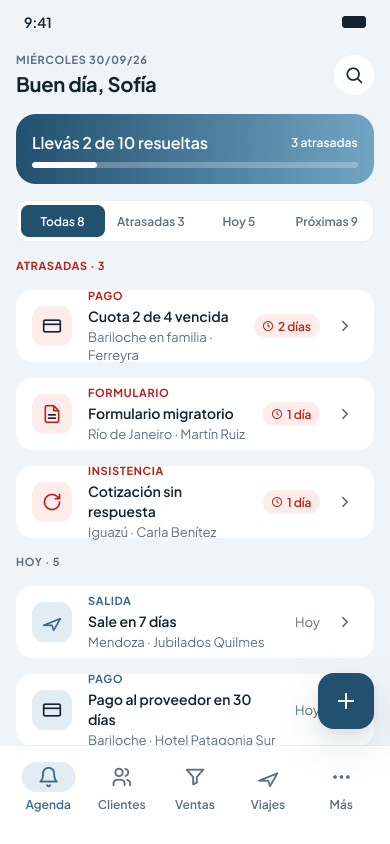
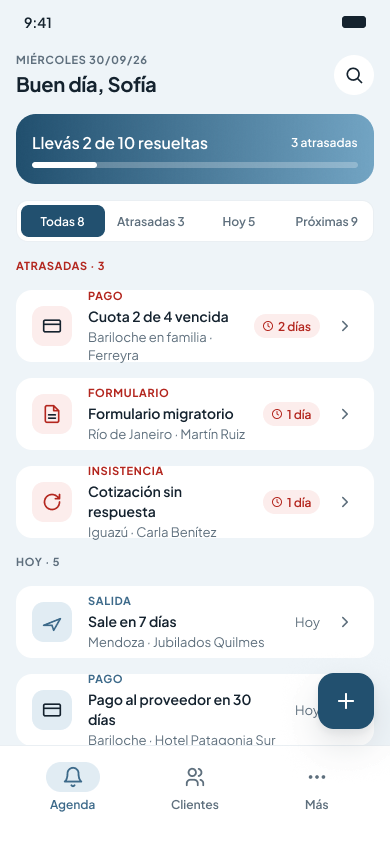
B5: mobile completo y navegación revisada del prototipo (RNF-14)
8 pantallas mobile (PNG 52 a 59), pestañas Agenda · Clientes · Más,
todas las pantallas alcanzables desde los puntos de inicio. B5 cerrado.

diff --git a/00-Inicio/Estado del proyecto.md b/00-Inicio/Estado del proyecto.md
@@ -27,7 +27,7 @@ Los tres tomamos **los tres roles** (Coordinador de vault · Guardián del domin
 - [x] Diagramas de **actividad** de flujos clave — ✅ los 5 en `03-Dominio/Diagramas/Actividad/` ([[DGM-ACT — De la consulta a la venta|CU-01]], [[DGM-ACT — Confirmar reserva|CU-07]], [[DGM-ACT — Registrar cobro de un pago|CU-12]], [[DGM-ACT — Cancelar viaje|CU-27]], [[DGM-ACT — Proceso automático diario|proceso diario]]); sus 18 huecos se resolvieron y se **formalizaron el 29/09**
 - [x] [[ARQ — Vista general]] formalizada — ✅ ratificada en la sync del 30/09
 - [x] DEC estructurales registradas y **ratificadas**: DEC-0001→0009 selladas (11/09 y 17/09; DEC-0004 obsoleta); **DEC-0002 y DEC-0010 formalizadas el 29/09**
-- [x] Prototipo UI de pantallas clave (Figma) — plan B · ✅ **B2, B3 y B4 hechos el 29/09 (Paloma)**: las 11 pantallas en [Rumbo — Prototipo PC1](https://www.figma.com/design/5rq8HOlZQ3uu4IUpBuhuZp), con sistema de diseño propio. Ampliado el mismo día al **sistema completo**: 20 pantallas más que cubren el resto de los CU (todos menos CU-01, que es el circuito completo) y las vistas `admin` y `freelance`, en filas por módulo. Navegable (435 interacciones, 5 puntos de inicio). B4: 36 PNG en `07-Entregables/Prototipo/img/` y nota [[Prototipo UI]]. ✅ Aprobado y formalizado en la sync del 30/09; ⏳ **B5**: completar todas las secciones por rol y el mobile — ✅ el `freelance` completo y las vistas por rol (30/09, 51 PNG); falta el mobile
+- [x] Prototipo UI de pantallas clave (Figma) — plan B · ✅ **B2, B3 y B4 hechos el 29/09 (Paloma)**: las 11 pantallas en [Rumbo — Prototipo PC1](https://www.figma.com/design/5rq8HOlZQ3uu4IUpBuhuZp), con sistema de diseño propio. Ampliado el mismo día al **sistema completo**: 20 pantallas más que cubren el resto de los CU (todos menos CU-01, que es el circuito completo) y las vistas `admin` y `freelance`, en filas por módulo. Navegable (435 interacciones, 5 puntos de inicio). B4: 36 PNG en `07-Entregables/Prototipo/img/` y nota [[Prototipo UI]]. ✅ Aprobado y formalizado en la sync del 30/09; ⏳ **B5**: completar todas las secciones por rol y el mobile — ✅ **B5 completo** (30/09, Paloma): `freelance`, vistas por rol y mobile; 59 PNG
 - [x] Modelos de IA del producto, prompts y agentes documentados — plan E · ✅ 30/09 (Francisco): E3 y E4 hechos; [[IA — Agentes del proyecto]] queda `en-revision` para A6
 - [x] Contrato OpenAPI (JSON) y script SQL del modelo de datos — plan F · ✅ F1 y F2 formalizados en la sync del 30/09; F3 (diagramas de dominio al documento) entra con H3
 - [ ] Modelo C4 y sección MVC en la arquitectura — plan G
@@ -106,7 +106,7 @@ Los tres tomamos **los tres roles** (Coordinador de vault · Guardián del domin
 - [x] **B2. Wireframes** de baja fidelidad de esas pantallas, recorriendo el camino principal de [[CU-01 De la consulta a la venta|CU-01]] de punta a punta. — ✅ 29/09 (Paloma): se saltó la baja fidelidad y se fue directo a B3, validando el estilo con una primera pantalla.
 - [x] **B3. Diseño en Figma** (vía MCP) con el vocabulario del lenguaje ubicuo y los estados reales del modelo (`reservado → vendido → confirmado…`, alertas `pendiente/vista/resuelta`). — ✅ 29/09 (Paloma): [Rumbo — Prototipo PC1](https://www.figma.com/design/5rq8HOlZQ3uu4IUpBuhuZp). Página «🧩 Componentes»: tokens (paleta del equipo, espaciado y radios), 8 estilos de texto (Plus Jakarta Sans), 2 sombras, 28 íconos y los componentes Botón, Etiqueta, Ítem de menú, Fila de alerta, Campo, Chip y Barra lateral. Página «🖥 Pantallas»: las 11 pantallas más los estados CU-14 vacío (A3), aviso con «Deshacer» y CU-24 error (A1). ⚠ La agenda muestra «Próximas» y «Progreso del día», **propuestos** en CU-14 (A5 y el indicador, con `Alerta.resuelta_en`) y a la espera de que Nahuel los acepte; si no se aceptan, hay que sacarlos del prototipo.
 - [x] **B4. Publicar:** link de Figma + PNG de cada pantalla en `07-Entregables/Prototipo/`, y una fila nueva en [[Entregables — índice]]. — ✅ 29/09 (Paloma): 36 PNG en `07-Entregables/Prototipo/img/`, nota [[Prototipo UI]] (tabla pantalla → CU → PNG) y filas en [[Entregables — índice]].
-- [ ] **B5. Prototipado completo por rol y mobile** (pedido en la sync del 30/09, Paloma; antes del cierre del día 2). El prototipo quedó **aprobado y formalizado**, pero hoy muestra sobre todo la vista del `empleado`, con una muestra chica del `freelance` y dos pantallas mobile. Falta: (1) **cada sección vista por cada rol** (`empleado`, `admin`, `dueño` y `freelance`), mostrando qué ve y qué puede hacer cada uno según [[DEC-0005 Autenticación y modelo de roles|DEC-0005]] y [[DEC-0008 Autenticación propia y rol de vendedor freelance|DEC-0008]]; (2) **el `freelance` completo**: todas sus secciones, solo con lo suyo, **sin** acciones para cargar o editar hoteles ni registrar reseñas (CU-16 y CU-17) y **sin** el módulo de redes (CU-19 y CU-20); `empleado`, `admin` y `dueño` sí cargan hoteles y reseñas, y moderar reseñas (CU-29) es solo de `admin` y `dueño`; (3) **el mobile completo**, con todas las secciones del alcance mobile de [[ARQ — Vista general]] (agenda, alertas y clientes), no solo la agenda y la ficha. Al terminar: exportar los PNG nuevos a `07-Entregables/Prototipo/img/` y sumarlos a la tabla de [[Prototipo UI]]. — ✅ **(2) hecho el 30/09 (Paloma):** 10 pantallas nuevas del `freelance` (agenda, calendario, clientes, ficha del cliente, cotización, viajes, ficha del viaje, catálogo y detalle de hotel, dashboard) con su propia cartera ficticia, menú reconectado para que el recorrido no salga a las pantallas del `empleado`, y el embudo (34) corregido porque reusaba clientes de Sofía; PNG 37 a 46. ✅ **(1) hecho el 30/09 (Paloma):** matriz rol × sección en [[Prototipo UI]] y 5 pantallas donde la vista cambia (dashboard y detalle de hotel del `empleado`, agenda de toda la agencia para `admin` y `dueño`, configuración de la dueña); el menú del `empleado` ya no muestra Reportes ni Configuración. `#accion/decidir`: la dueña ve solo Destinos y Operadores en Configuración porque CU-13 y CU-25 son solo del `admin`. **Falta (3)** el mobile.
+- [x] **B5. Prototipado completo por rol y mobile** (pedido en la sync del 30/09, Paloma; antes del cierre del día 2). El prototipo quedó **aprobado y formalizado**, pero hoy muestra sobre todo la vista del `empleado`, con una muestra chica del `freelance` y dos pantallas mobile. Falta: (1) **cada sección vista por cada rol** (`empleado`, `admin`, `dueño` y `freelance`), mostrando qué ve y qué puede hacer cada uno según [[DEC-0005 Autenticación y modelo de roles|DEC-0005]] y [[DEC-0008 Autenticación propia y rol de vendedor freelance|DEC-0008]]; (2) **el `freelance` completo**: todas sus secciones, solo con lo suyo, **sin** acciones para cargar o editar hoteles ni registrar reseñas (CU-16 y CU-17) y **sin** el módulo de redes (CU-19 y CU-20); `empleado`, `admin` y `dueño` sí cargan hoteles y reseñas, y moderar reseñas (CU-29) es solo de `admin` y `dueño`; (3) **el mobile completo**, con todas las secciones del alcance mobile de [[ARQ — Vista general]] (agenda, alertas y clientes), no solo la agenda y la ficha. Al terminar: exportar los PNG nuevos a `07-Entregables/Prototipo/img/` y sumarlos a la tabla de [[Prototipo UI]]. — ✅ **(2) hecho el 30/09 (Paloma):** 10 pantallas nuevas del `freelance` (agenda, calendario, clientes, ficha del cliente, cotización, viajes, ficha del viaje, catálogo y detalle de hotel, dashboard) con su propia cartera ficticia, menú reconectado para que el recorrido no salga a las pantallas del `empleado`, y el embudo (34) corregido porque reusaba clientes de Sofía; PNG 37 a 46. ✅ **(1) hecho el 30/09 (Paloma):** matriz rol × sección en [[Prototipo UI]] y 5 pantallas donde la vista cambia (dashboard y detalle de hotel del `empleado`, agenda de toda la agencia para `admin` y `dueño`, configuración de la dueña); el menú del `empleado` ya no muestra Reportes ni Configuración. `#accion/decidir`: la dueña ve solo Destinos y Operadores en Configuración porque CU-13 y CU-25 son solo del `admin`. ✅ **(3) hecho el 30/09:** mobile completo (inicio de sesión, detalle de alerta, posponer, agenda tras resolver, nuevo recordatorio, clientes, nuevo cliente y Más), con pestañas Agenda · Clientes · Más según RNF-14. Se revisó la navegación de todo el prototipo: todas las pantallas se alcanzan desde un punto de inicio. **B5 cerrado.**
 
 ### C · Recomendados — refuerzan el modelo
 - [ ] **C1. Catálogo de reglas de negocio.** Hoy solo existe [[RN-01 Comisión automática]]. Candidatas que ya están decididas y dispersas en los CU: **RN-02** `Σ montos = precioVenta` ([[CU-11 Definir plan de cuotas|CU-11]]), **RN-03** el Pago es indivisible (RF-072), **RN-04** baja lógica en todo el sistema (RF-153), **RN-05** el primer cobro pasa el viaje a `vendido` y la secuencia del viaje es estricta ([[EST-Viaje]]).

diff --git a/07-Entregables/Prototipo/Prototipo UI.md b/07-Entregables/Prototipo/Prototipo UI.md
@@ -73,6 +73,14 @@ Tokens en variables (paleta del equipo: azules `#22506F` → `#73A5C4` y gris `#
 | 49 | Admin · agenda de toda la agencia | CU-14 | `img/49-admin-agenda-agencia.png` |
 | 50 | Dueña · agenda de toda la agencia | CU-14 | `img/50-duena-agenda-agencia.png` |
 | 51 | Dueña · configuración (destinos y operadores) | [[CU-26 Gestionar destinos|CU-26]] · CU-15 · [[CU-31 Gestionar operadores|CU-31]] | `img/51-duena-configuracion.png` |
+| 52 | Mobile · inicio de sesión | [[CU-24 Iniciar sesión|CU-24]] | `img/52-mobile-inicio-sesion.png` |
+| 53 | Mobile · detalle de alerta | CU-14 | `img/53-mobile-detalle-alerta.png` |
+| 54 | Mobile · posponer alerta | CU-14 | `img/54-mobile-posponer-alerta.png` |
+| 55 | Mobile · agenda tras resolver, con «Deshacer» | CU-14 | `img/55-mobile-agenda-tras-resolver.png` |
+| 56 | Mobile · nuevo recordatorio | [[CU-28 Crear recordatorio manual|CU-28]] | `img/56-mobile-nuevo-recordatorio.png` |
+| 57 | Mobile · clientes | CU-03 paso 1 | `img/57-mobile-clientes.png` |
+| 58 | Mobile · nuevo cliente | [[CU-02 Registrar cliente|CU-02]] | `img/58-mobile-nuevo-cliente.png` |
+| 59 | Mobile · más (perfil y cerrar sesión) | CU-24 | `img/59-mobile-mas.png` |
 
 [[CU-01 De la consulta a la venta|CU-01]] no tiene pantalla propia: es el circuito completo y se recorre navegando las pantallas 11 → 12 → 13 → 15 → 18.
 
@@ -102,11 +110,17 @@ Se dibujan aparte solo las pantallas que **cambian según el rol** (fila «Vista
 - ⚠ `#accion/decidir` **Configuración del `dueño`:** se siguieron los CU (CU-15, CU-26 y CU-31 incluyen al `dueño`; CU-13 y CU-25 son solo del `admin`). Que la dueña no pueda gestionar usuarios ni comisiones es llamativo: ratificar con el equipo o ampliar CU-13 y CU-25.
 - Límite del prototipo: las pantallas compartidas llevan la barra lateral de Sofía, así que al navegar desde la vista del `admin` o del `dueño` a una sección común se ve el menú del `empleado`. La moderación (24) no tiene enlace desde el catálogo, que ahora abre la vista del `empleado` (48).
 
+## Mobile completo (B5, 30/09/26)
+Alcance de RNF-14 y [[ARQ — Vista general]]: **agenda, alertas y clientes**. Por eso la barra de pestañas quedó en **Agenda · Clientes · Más** (se sacaron Ventas y Viajes, que son solo de la web). Recorrido desde el punto de inicio *Rumbo · mobile*, que ahora arranca en el inicio de sesión (52): agenda (35) → tocar la cuota vencida → detalle de la alerta (53) → resolver (55, con «Deshacer»), posponer (54), ver cliente (36) o marcar como vista; botón «+» → nuevo recordatorio (56); pestaña Clientes (57) → ficha (36) o «+» → nuevo cliente (58); pestaña Más (59) → cerrar sesión. El cobro y la gestión del viaje se hacen desde la web, y la pantalla «Más» lo aclara. Se muestra la vista del `empleado`; en el teléfono cada rol ve lo mismo que en la web (el `freelance`, solo lo suyo).
+
+## Navegación del prototipo
+Revisión del 30/09/26: **todas las pantallas se alcanzan** desde alguno de los 5 puntos de inicio y no hay enlaces rotos. Se sumaron los enlaces a los estados que estaban sueltos: en el inicio de sesión de escritorio, tocar el campo de contraseña muestra el error (2), y en el catálogo tocar el filtro de destino muestra «sin resultados» (22). Quedan sin enlace solo los dos recortes de estado de la agenda (4 y 5), que no son pantallas completas. En las filas de la agenda mobile, solo la cuota vencida abre el detalle, para que el contenido coincida.
+
 ## Pendiente: prototipado completo (B5)
 Pedido en la sync del 30/09/26, al aprobar el prototipo. Detalle en el paso **B5** de [[Estado del proyecto]]:
 - ✅ **Cada sección vista por cada rol** (30/09/26, ver *Vistas por rol*).
 - ✅ **El `freelance` completo** (30/09/26, ver arriba): todas sus secciones, solo con lo suyo, sin cargar ni editar hoteles, sin registrar reseñas y sin el módulo de redes. `empleado`, `admin` y `dueño` sí cargan hoteles y reseñas; moderar reseñas es solo de `admin` y `dueño`.
-- **El mobile completo:** agenda, alertas y clientes, según el alcance mobile de [[ARQ — Vista general]].
+- ✅ **El mobile completo** (30/09/26, ver *Mobile completo*): agenda, alertas y clientes, según el alcance mobile de [[ARQ — Vista general]].
 
 ## Cómo regenerar los PNG
 No hay script: se exportan desde Figma con el MCP (`get_screenshot` de cada pantalla, a 1440 px de ancho) y se guardan en `img/` con el mismo nombre. Si cambia una pantalla, se reexporta solo esa.

diff --git a/07-Entregables/Entregables — índice.md b/07-Entregables/Entregables — índice.md
@@ -22,7 +22,7 @@ tags:: #tipo/referencia #estado/formalizado
 | Casos de uso | `02-Analisis/Casos de uso/CU-*.md` | `07-Entregables/Casos de uso/Rumbo — Casos de uso.docx` | PC1 |
 | Inteligencia artificial | [[DEC-0012 Modelo de IA del producto]] + [[IA — Agentes del proyecto]] | `07-Entregables/IA/Rumbo — Inteligencia artificial.docx` | PC1 |
 | Modelo de desarrollo e interfaces gráficas | [[Modelo de desarrollo]] + la tabla de pantallas de [[Prototipo UI]] | `07-Entregables/Desarrollo/Rumbo — Modelo de desarrollo.docx` | PC1 |
-| Prototipo UI | [Figma — Rumbo · Prototipo PC1](https://www.figma.com/design/5rq8HOlZQ3uu4IUpBuhuZp) (la fuente es Figma, no un `.md`) | `07-Entregables/Prototipo/img/` (51 PNG) · detalle en [[Prototipo UI]] | PC1 |
+| Prototipo UI | [Figma — Rumbo · Prototipo PC1](https://www.figma.com/design/5rq8HOlZQ3uu4IUpBuhuZp) (la fuente es Figma, no un `.md`) | `07-Entregables/Prototipo/img/` (59 PNG) · detalle en [[Prototipo UI]] | PC1 |
 
 > **Los tres se entregan juntos y se leen en ese orden:** el relevamiento define el problema y el alcance, los requisitos especifican qué debe hacer el sistema dentro de ese alcance, y los casos de uso describen cómo se realiza cada requisito. Para que no se contradigan, **cada contenido vive en un solo documento** y los otros lo referencian: el **alcance** está únicamente en el relevamiento, y la **especificación formal del circuito** (precondiciones, flujos alternativos) únicamente en casos de uso.
 
@@ -113,7 +113,7 @@ bash "07-Entregables/build/render-diagramas-diseno.sh"
 | Secuencia de análisis (3) | `03-Dominio/Diagramas/Secuencia/img/` |
 | Arquitectura: despliegue, monorepo, vista lógica (capas y módulos) y C4 (contexto, contenedores y componentes) | `05-Diseño/Arquitectura/img/` |
 | IA: ciclo de trabajo con el agente · Modelo de desarrollo: iteraciones y pipeline de calidad | `05-Diseño/img/` |
-| Prototipo UI: las 51 pantallas (se exportan desde Figma, ver [[Prototipo UI]]) | `07-Entregables/Prototipo/img/` |
+| Prototipo UI: las 59 pantallas (se exportan desde Figma, ver [[Prototipo UI]]) | `07-Entregables/Prototipo/img/` |
 
 Los diagramas nuevos de `05-Diseño` se suman como una línea en `render-diagramas-diseno.sh`.
 

diff --git a/00-Inicio/Bitácora de sesiones.md b/00-Inicio/Bitácora de sesiones.md
@@ -30,6 +30,10 @@ Es **obligatorio** nombrar a la persona que hizo la sesión.
 - **Pendiente:** …
 ```
 
+## 30/09/26 — Paloma (Claude Opus 5.5) — B5: mobile completo y navegación
+- **Hecho:** 8 pantallas mobile nuevas (inicio de sesión, detalle de alerta, posponer, agenda tras resolver con «Deshacer», nuevo recordatorio, clientes, nuevo cliente y Más) con los componentes del sistema de diseño. La barra de pestañas pasó a Agenda · Clientes · Más (Ventas y Viajes quedan fuera del alcance mobile de RNF-14). El punto de inicio *Rumbo · mobile* arranca en el inicio de sesión. Revisión de navegación de todo el prototipo: todas las pantallas se alcanzan desde los 5 puntos de inicio, sin enlaces rotos; se enlazaron el error de inicio de sesión y el catálogo sin resultados, y se corrigieron puntos de inicio duplicados que habían dejado las copias. PNG 52 a 59 nuevos; 35 y 36 reexportados. **B5 cerrado.**
+- **Pendiente:** `#accion/decidir` configuración de la dueña; regenerar el `.docx` de Modelo de desarrollo con las 59 pantallas.
+
 ## 30/09/26 — Paloma (Claude Opus 5.5) — B5: vistas por rol
 - **Hecho:** Matriz rol × sección en [[Prototipo UI]] (según los actores de cada CU) y 5 pantallas nuevas donde la vista cambia: dashboard del `empleado` (lo suyo, CU-21 A1), detalle de hotel del `empleado` (sin moderar), agenda de toda la agencia para `admin` y `dueño` (con el responsable de cada alerta y filtro por responsable) y configuración de la dueña (solo Destinos y Operadores). Menús por rol: el `empleado` ya no ve Reportes ni Configuración; los menús de `admin` y `dueño` abren sus agendas y el del `empleado` su dashboard. Coherencia de datos: el viaje a Mendoza y el Centro de Jubilados pasan a Sofía, y su agenda deja solo sus alertas. PNG 47 a 51 nuevos y 21 PNG del `empleado` reexportados.
 - **Pendiente:** `#accion/decidir` configuración de la dueña (CU-13 y CU-25 son solo del `admin`); B5 (3): mobile completo; regenerar el `.docx` de Modelo de desarrollo con la tabla de 51 pantallas.
